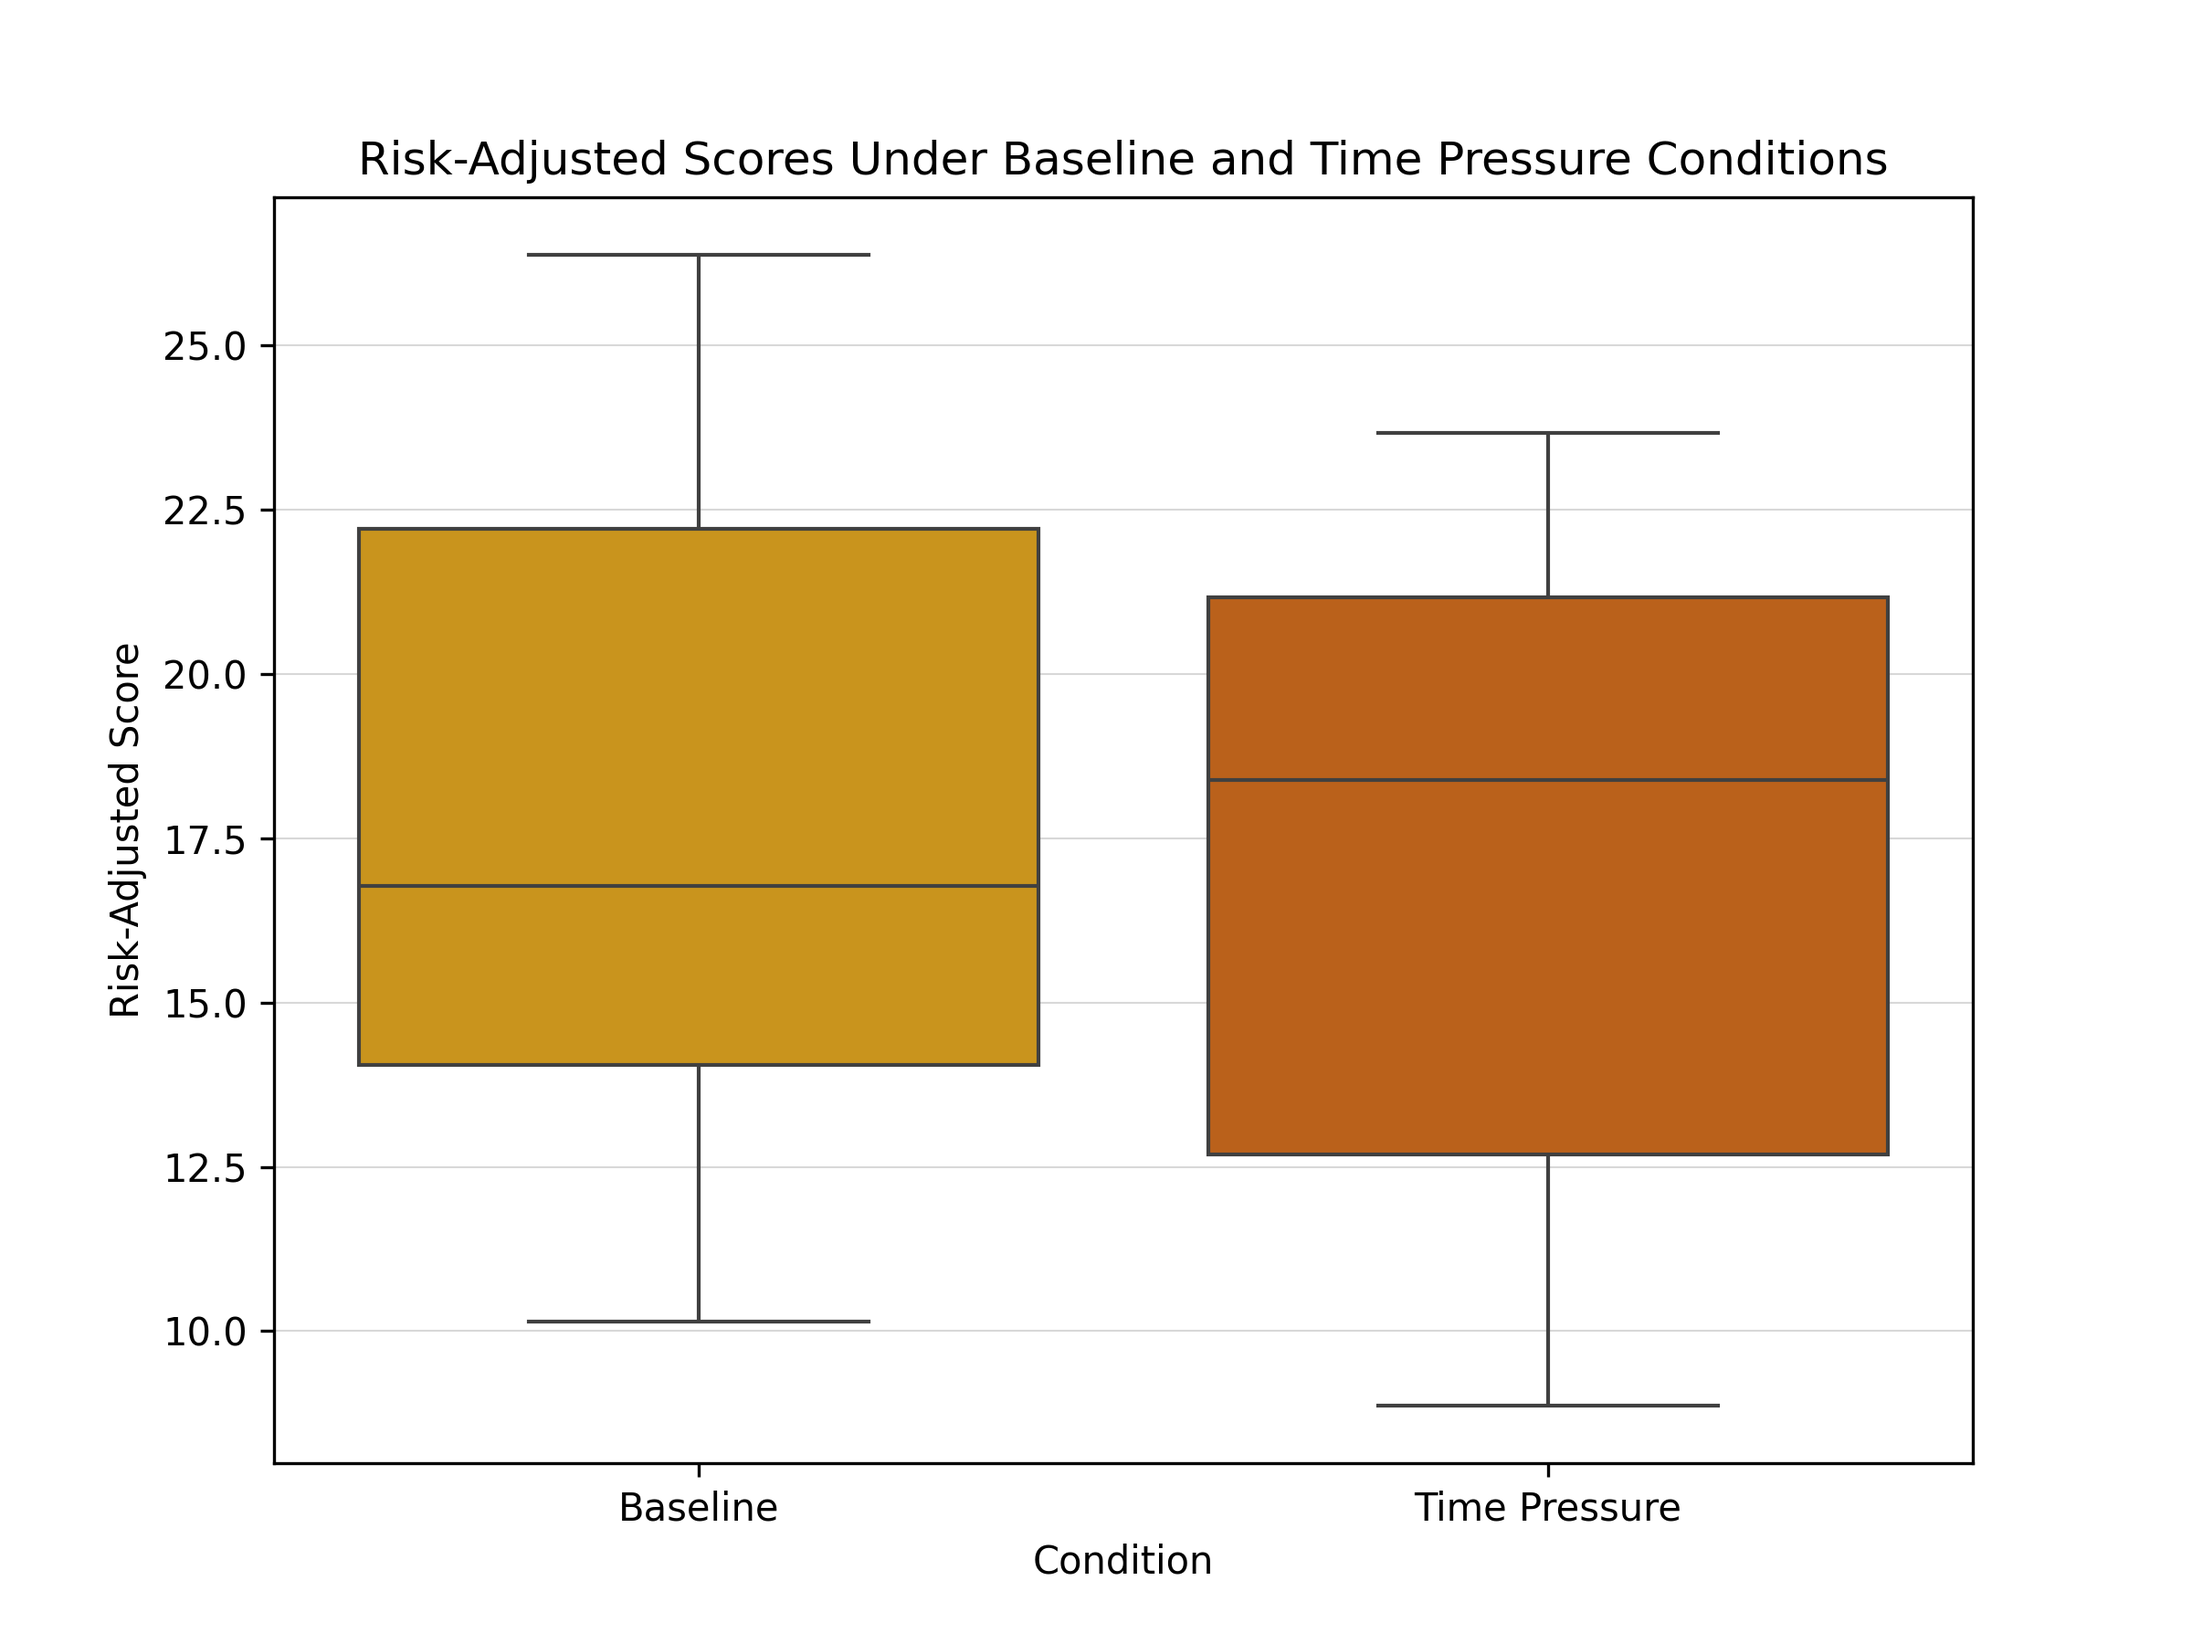
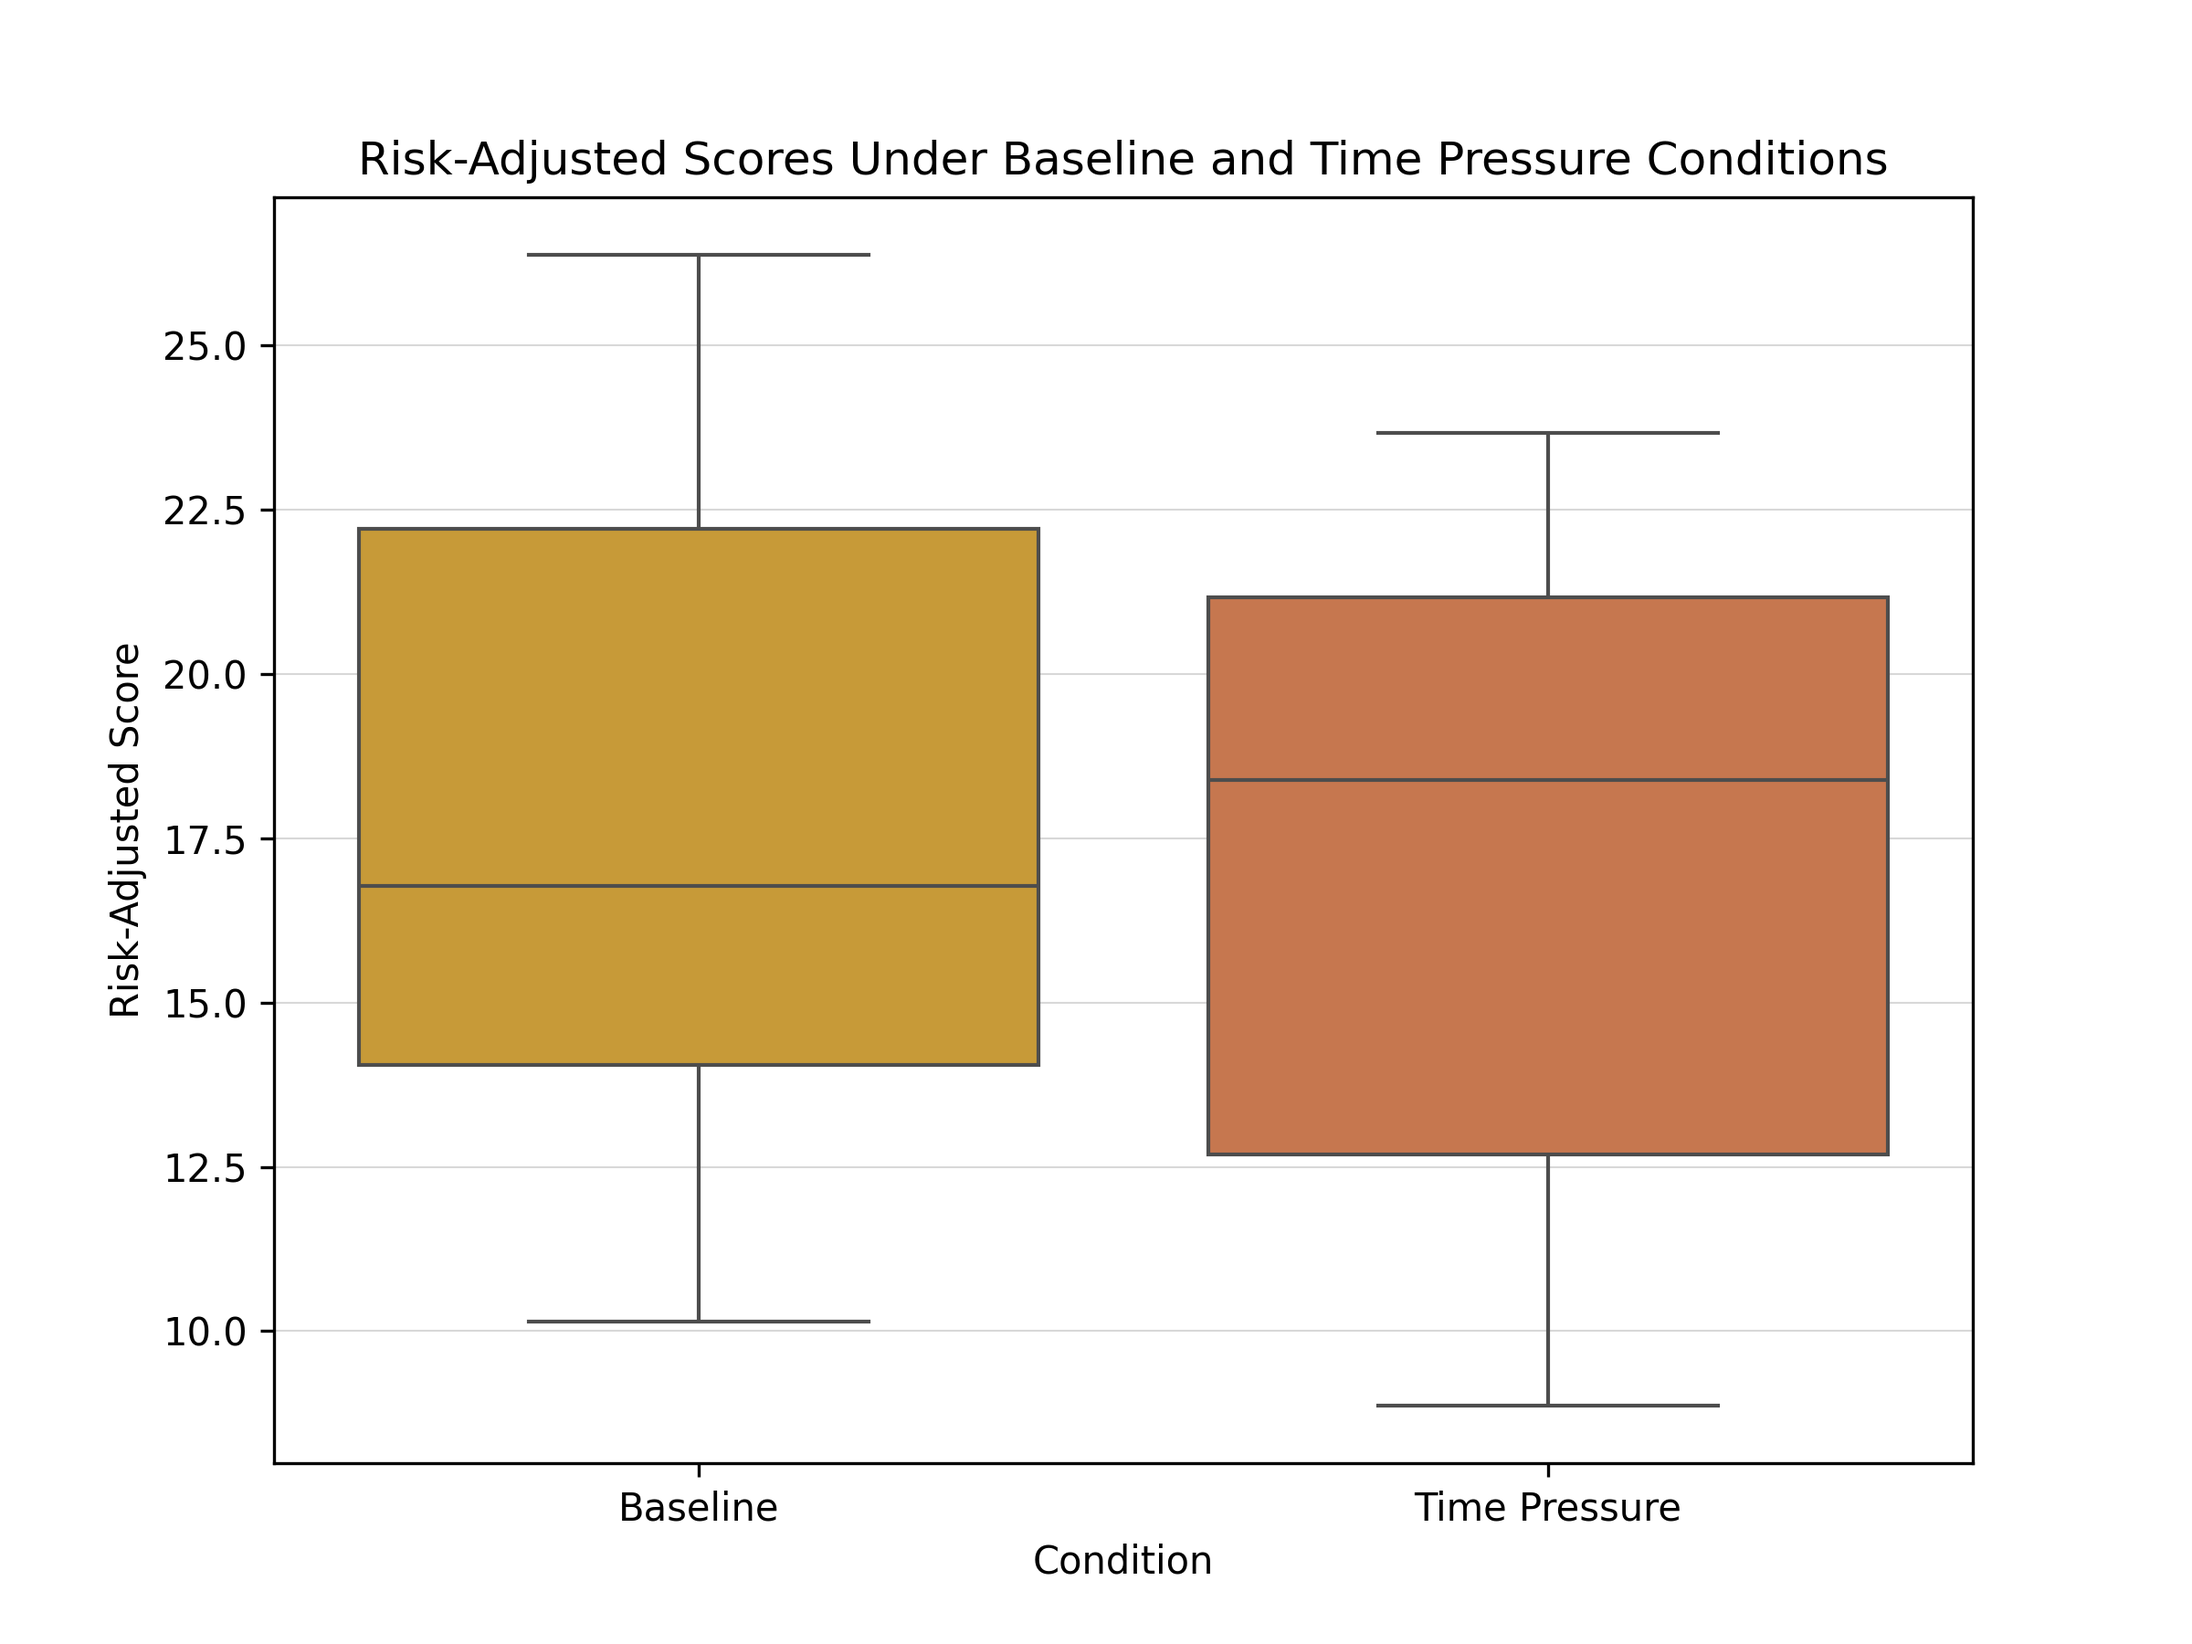
Updates

Changed region(s): [[0.5312, 0.3422, 0.875, 0.7156], [0.1562, 0.3111, 0.5, 0.6533]]

diff --git a/data_analysis/data_analysis.py b/data_analysis/data_analysis.py
@@ -59,8 +59,8 @@ with open("results_statistics_output.txt", "w") as out:
         out.write("\n")
 
 # Colors
-baseline_color = "#E69F00"  # orangey-yellow
-pressure_color = "#D55E00"  # reddish-orange
+baseline_color = "#DFA320"  # orangey-yellow
+pressure_color = "#DA713B"  # reddish-orange
 
 # Boxplot: Baseline vs. Pressure
 plt.figure(figsize=(8, 6))
@@ -100,8 +100,7 @@ sns.histplot(
     analysis_df["delta_risk_score"],
     kde=True,
     bins=10,
-    color="#ffd67f",
-    line_kws={"color": "#ffb413", "linewidth": 2}
+    color="#ffb347",
 )
 plt.axvline(0, color='red', linestyle='--', label='No Change (Δ = 0)')
 plt.legend(loc='upper right')  
